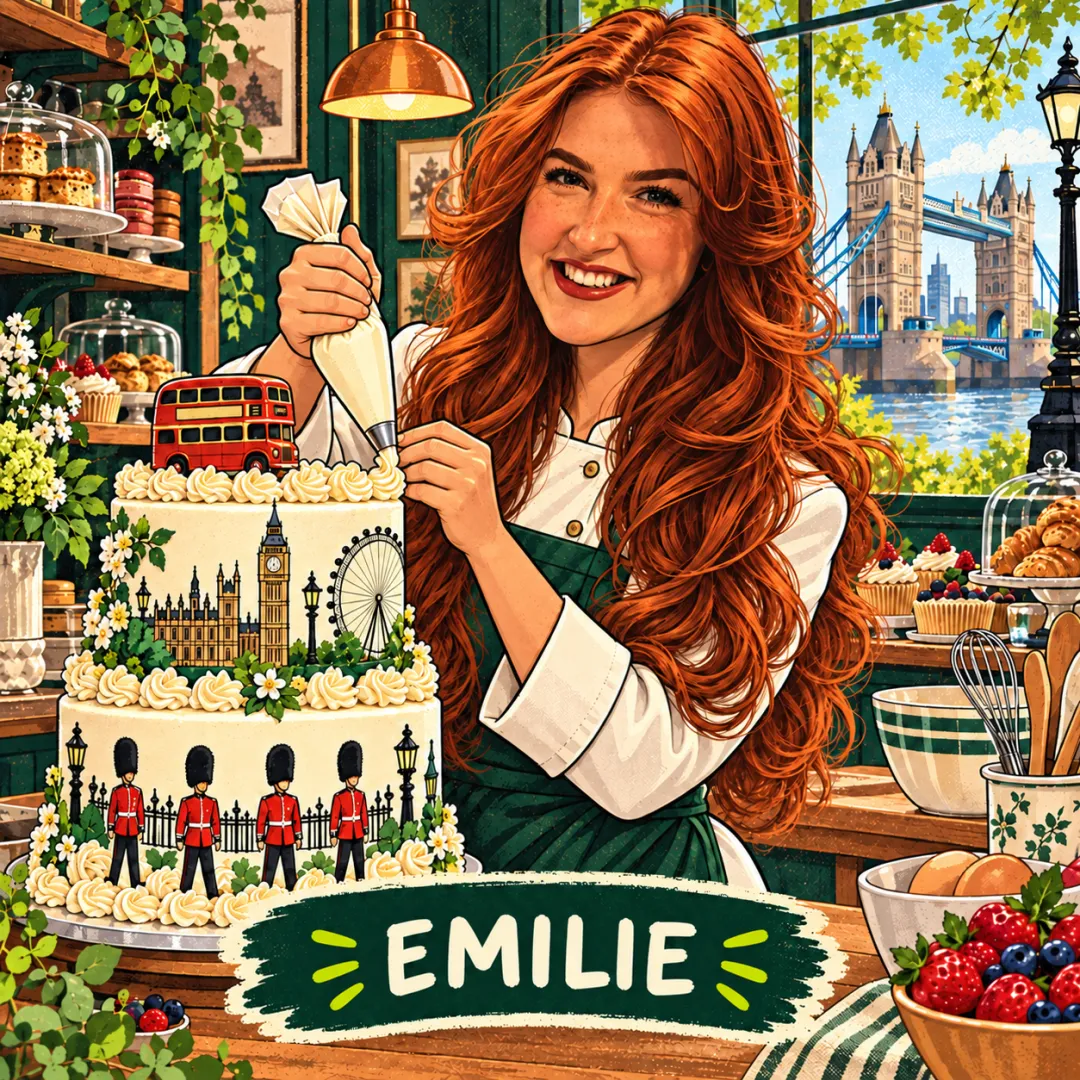
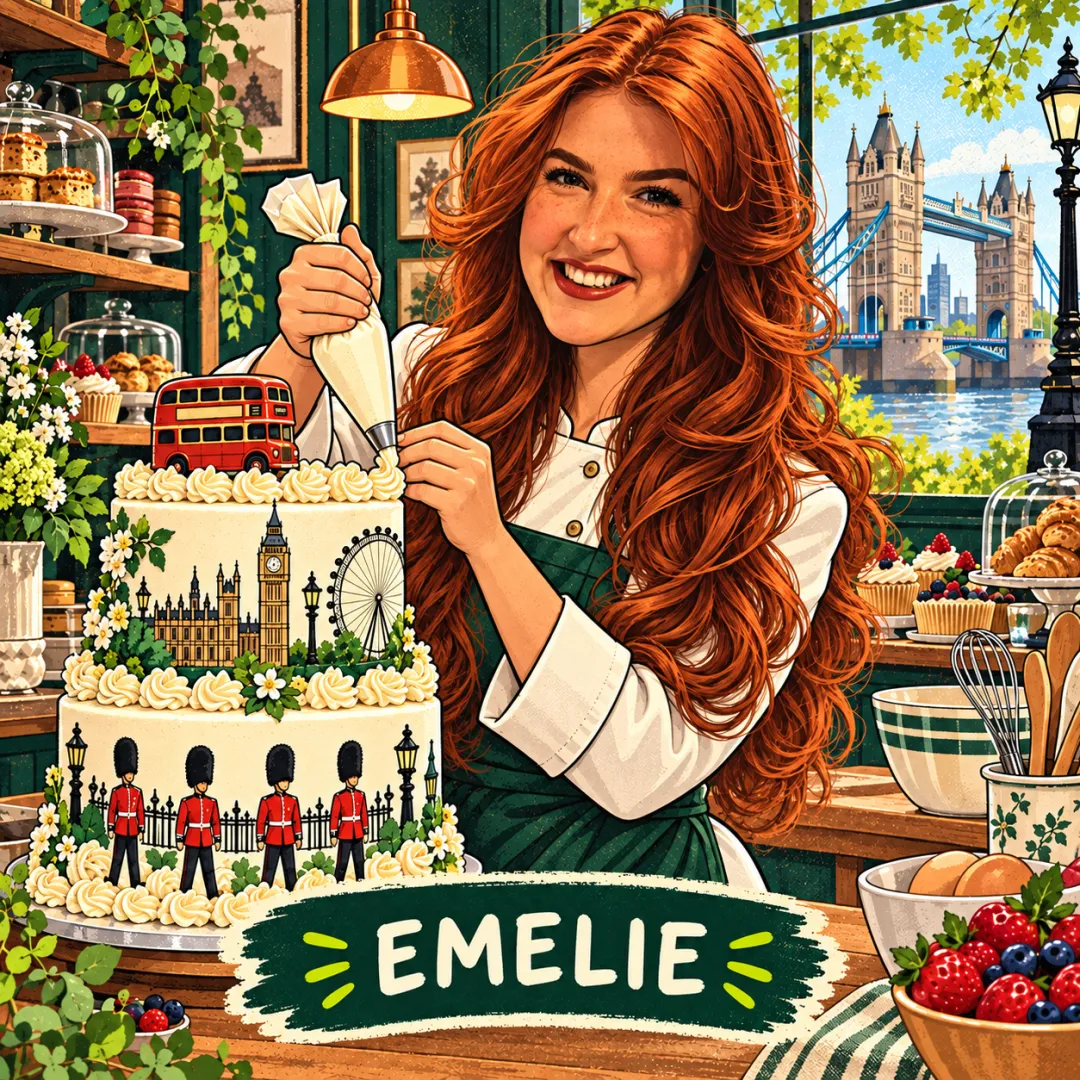
Emelie: juiste spelling en cartoon met naambord EMELIE terug

diff --git a/app.js b/app.js
@@ -23,7 +23,7 @@ L.tileLayer('https://tile.openstreetmap.org/{z}/{x}/{y}.png',{maxZoom:19,attribu
 const markers={};tripPlaces.filter(p=>p.coords&&!p.buitenKaart).forEach(p=>{markers[p.id]=L.marker(p.coords,{title:p.name,alt:p.name,icon:L.divIcon({className:'trip-pin '+p.id+(p.provisional?' provisional':''),html:p.id==='hotel'?'H':p.id==='pier'?'B':p.label,iconSize:[38,38],iconAnchor:[19,38],popupAnchor:[0,-38]})}).addTo(placesMap).bindPopup(`<strong>${p.name}</strong><p>${p.when}<br>${p.address}${p.note?'<br>'+p.note:''}</p><a href="${routeTo(p)}" target="_blank" rel="noopener">Route openen</a>`);});
 view.querySelectorAll('[data-map-place]').forEach(b=>{b.hidden=false;b.onclick=()=>{const p=tripPlaces.find(p=>p.id===b.dataset.mapPlace);placesMap.setView(p.coords,16);markers[p.id].openPopup();document.getElementById('trip-map').scrollIntoView({behavior:'smooth',block:'center'});};});
 }
-const kamers=[['David','Mitchel'],['Rico','Jim'],['Jeroen Hutten','Wout'],['Bas','Robin'],['Richard','Jarno'],['Maurits','Jeroen Heemskerk'],['Nick','Kelly'],['Anne','Maria'],['Emilie','India'],['Lieke','Anke']];
+const kamers=[['David','Mitchel'],['Rico','Jim'],['Jeroen Hutten','Wout'],['Bas','Robin'],['Richard','Jarno'],['Maurits','Jeroen Heemskerk'],['Nick','Kelly'],['Anne','Maria'],['Emelie','India'],['Lieke','Anke']];
 function practical(){view.innerHTML=`<div class="section-head"><h2>Goed geregeld.</h2></div><div class="cards"><article class="card"><h3>Heenreis · vrijdag 2 oktober</h3><p><strong>easyJet · EZY8673</strong><br>Amsterdam Schiphol → London Gatwick<br>07:00 verzamelen op Schiphol Plaza<br>08:55 vertrek (Nederlandse tijd)<br>09:20 aankomst (Londense tijd)<br>Aankomstterminal: North Terminal</p><p><strong>Bagageafgifte</strong><br>Open: 06:25 · sluit: 07:55<br>De incheckbalie sluit 60 minuten voor vertrek.</p><p class="muted">Controleer voor vertrek de actuele vluchtinformatie bij easyJet.</p></article><article class="card"><h3>Terugreis · zondag 4 oktober</h3><p><strong>easyJet · EZY8688 (U2 8688)</strong><br>London Gatwick (LGW) → Amsterdam Schiphol (AMS)<br>15:20 vertrek (Londense tijd)<br>17:40 aankomst (Nederlandse tijd)</p><p>Vertrekterminal en bagageafgiftetijden volgen.</p><p>We reizen met het openbaar vervoer vanuit het centrum naar Gatwick. Vertrektijd volgt.</p></article><article class="card"><h3>Ons hotel</h3><p>The Prince Hotel Vauxhall Central London Riverside<br>49–51 Black Prince Road<br>Londen, SE11 6AB</p><p><a class="route" href="${routeTo(tripPlaces[0])}" target="_blank" rel="noopener">Route naar het hotel</a></p><p><a href="tel:+447784603675">+44 7784 603675</a></p></article><article class="card"><h3>Kamerindeling</h3><ul class="rooms">${kamers.map(k=>`<li>${k.join(' <span>&amp;</span> ')}</li>`).join('')}</ul></article></div><div class="notice">Alle tijden zijn lokaal: de vertrekactiviteiten op Schiphol in Nederlandse tijd, het programma in Londen in Londense tijd en de aankomst op Schiphol in Nederlandse tijd.</div><button class="utility" id="print">Bewaar / print het hele programma ↗</button><p class="muted">Kies in het afdrukvenster ‘Bewaar als PDF’ voor een offline exemplaar.</p>`;document.getElementById('print').onclick=()=>{const previous=view.innerHTML;view.innerHTML=days.map((d,i)=>`<section class="${i?'print-day':''}"><h2>${d.label} ${d.date} · Bakery Nexus</h2><p>Programma · tijden lokaal · bijgewerkt 30 september 2026</p>${timeline(d)}</section>`).join('');window.print();practical()}}
 // Deelnemers — centrale lijst. Afbeelding alleen invullen als de illustratie goedgekeurd is.
 // Interne briefings staan bewust NIET hier (deze file is openbaar), maar in data/participants-private.json buiten dist.
@@ -44,7 +44,7 @@ const people=[
 ['maurits-casteleijn','Maurits','Casteleijn',false,'assets/people/maurits-casteleijn',null,'Cartoon van Maurits die een monsterkoffer vol minibroodjes en potjes grondstoffen opent alsof het juwelen zijn.'],
 ['wout-nollen','Wout','Nollen',false,'assets/people/wout-nollen',null,'Cartoon van Wout die een vol blik verse broden balanceert en ondertussen een productielijst afvinkt.'],
 ['anke-daling','Anke','Daling',false,'assets/people/anke-daling',null,'Cartoon van Anke die in een Londens café lachend wijst naar een stijgende grafiek van croissants op haar laptop.'],
-['emilie-tolhuisen','Emilie','Tolhuisen',false,'assets/people/emilie-tolhuisen',null,'Cartoon van Emilie met lang rood haar die een Londense taart met Big Ben, de London Eye en garde-soldaatjes afwerkt met een spuitzak.'],
+['emilie-tolhuisen','Emelie','Tolhuisen',false,'assets/people/emilie-tolhuisen',null,'Cartoon van Emelie met lang rood haar die een Londense taart met Big Ben, de London Eye en garde-soldaatjes afwerkt met een spuitzak.'],
 ['rico-romijn','Rico','Romijn',false,'assets/people/rico-romijn',null,'Cartoon van Rico die als testbakker een flinterdun vliesje deeg uitrekt, met proefbroodjes en een weegschaal op de werkbank.'],
 ['jim-van-aken','Jim','van Aken',false,'assets/people/jim-van-aken',null,'Cartoon van Jim die onder een zilveren stolp een overdadig luxe brood onthult.'],
 ['anne-van-kraaij','Anne','van Kraaij',false,'assets/people/anne-van-kraaij',null,'Cartoon van Anne die met een liniaaltje een croissant precies op zijn plek legt in een winkelpresentatie.']
